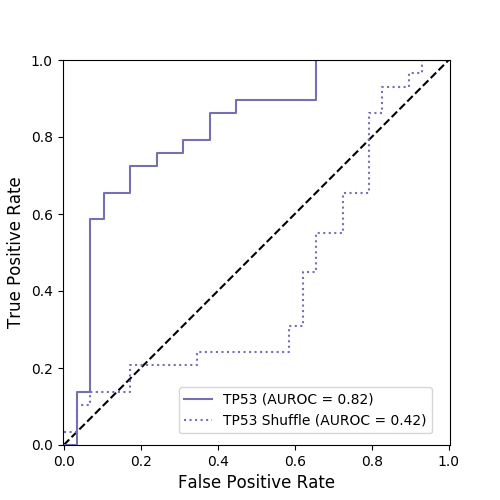
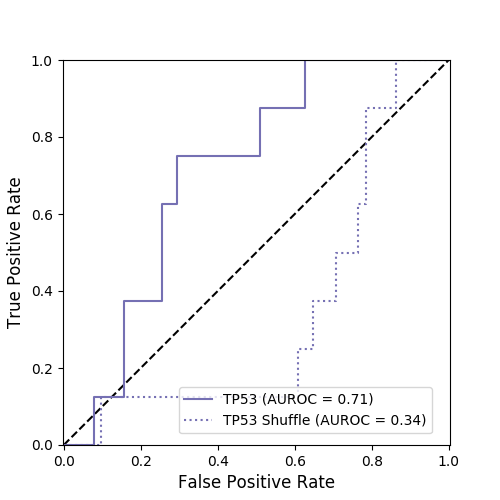
updating tp53 evaluation plot

diff --git a/analyses/tp53_nf1_score/05-evaluate-classifier.py b/analyses/tp53_nf1_score/05-evaluate-classifier.py
@@ -65,7 +65,7 @@ outputfilename = options.outputfile
 np.random.seed(123)
 
 # read TP53/NF1 alterations
-status_df = pd.read_table(status_file, low_memory=False)
+full_status_df = pd.read_table(status_file, low_memory=False)
 # read in clinical file
 clinical_df = pd.read_table(clinical)
 # select only IDs
@@ -73,26 +73,25 @@ clinical_df = clinical_df[
     ["Kids_First_Biospecimen_ID", "sample_id", "Kids_First_Participant_ID"]
 ]
 
-
-# add clinical info to alterations dataframe
-status_df = status_df.merge(
-    clinical_df,
-    how="left",
-    left_on="Kids_First_Biospecimen_ID_RNA",
-    right_on="Kids_First_Biospecimen_ID",
-)
-
-
 # Obtain a binary status matrix
-full_status_df['tp53_status']=(
-    # ~ 1 if both SNV/CNV counts are more than 1 so can be considered as a TP53 double hit
-    (full_status_df['SNV_indels_counts'] != 0 & full_status_df['CNV_loss_counts'] != 0 ) |
-    # ~ 1 if SNV == 1 and cancer_predisposition == Li-Fraumeni syndrome
-    (full_status_df['SNV_indels_counts'] == 1 & full_status_df['cancer_predispositions'] == "Li-Fraumeni syndrome" ) |
-    # ~ 1 if SNV == 1 and cancer_predisposition == Li-Fraumeni syndrome
-    (full_status_df['CNV_loss_counts'] == 1 & full_status_df['cancer_predispositions'] == "Li-Fraumeni syndrome" ) |
-    # ~ 1 if SNV count is more than 1 so consider it as a double hit
-    (full_status_df['SNV_indels_counts'] >1).as.type(int)
+full_status_df['tp53_status']= full_status_df.apply(
+    lambda x: (1
+               # IF
+               # both SNV/CNV counts are more than 1 so can be considered as a TP53 double hit
+               if (x['SNV_indel_counts'] !=0 and x['CNV_loss_counts'] != 0 or
+                   # SNV == 1 and cancer_predisposition == Li-Fraumeni syndrome
+                   (x['SNV_indel_counts'] == 1 and (x['cancer_predispositions'] == "Li-Fraumeni syndrome")) or
+                   # SNV == 1 and cancer_predisposition == Li-Fraumeni syndrome
+                   (x['CNV_loss_counts'] == 1 and (x['cancer_predispositions'] == "Li-Fraumeni syndrome")) or
+                   # SNV count is more than 1 so consider it as a double hit  
+                   (x['SNV_indel_counts'] >1))
+               # ELSE
+               else 0), axis=1)
+
+
+print("drop tp53_score columns from tp53 annotation file")
+full_status_df = full_status_df.drop("tp53_score" , axis = "columns")
+
 
 
 # read in scores from 01
@@ -115,14 +114,11 @@ scores_df = scores_df.assign(SAMPLE_ID=scores_df.loc[:, "sample_id"])
 
 
 gene_status = ["tp53_status"]
-scores_df.loc[scores_df["tp53_status"] != 0, "tp53_status"] = 1
-
-
 # binary counts for tp53 loss status
 print("TP53 status")
 print(scores_df.tp53_status.value_counts())
 
-
+print(scores_df.head())
 
 def get_roc_plot(scores_df, gene, outputfilename, color):
     """
@@ -140,6 +136,8 @@ def get_roc_plot(scores_df, gene, outputfilename, color):
     sample_status = scores_df.loc[:, "{}_status".format(lower_gene)]
     sample_score = scores_df.loc[:, "{}_score".format(lower_gene)]
     shuffle_score = scores_df.loc[:, "{}_shuffle".format(lower_gene)]
+    print(sample_status.head())
+    print(sample_score.head())
     fpr_pbta, tpr_pbta, thresh_pbta = roc_curve(
         sample_status, sample_score, drop_intermediate=False
     )
